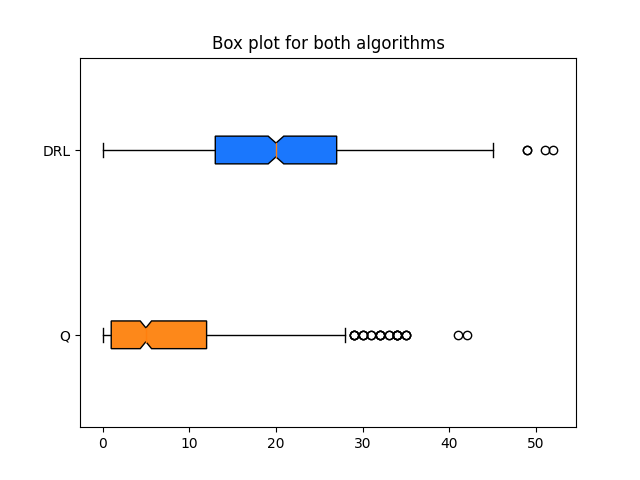
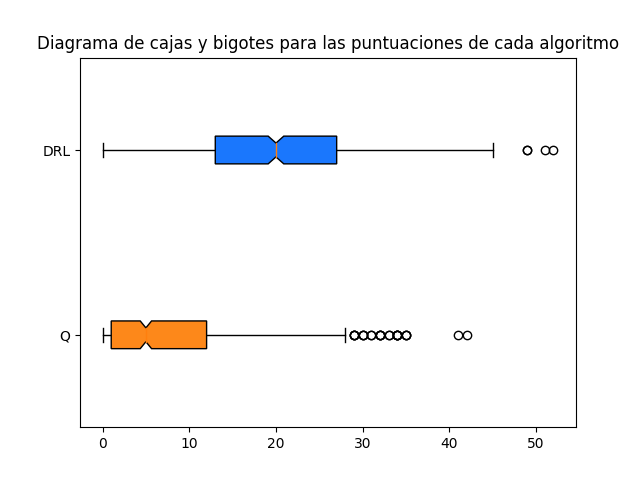
added more explanation fixed some typos

Changed region(s): [[0.0625, 0.0625, 0.9688, 0.125]]

diff --git a/proyecto_final/code/q_learning/results_computer.py b/proyecto_final/code/q_learning/results_computer.py
@@ -236,7 +236,7 @@ for patch, color in zip(bp['boxes'], colors):
 ax.set_yticklabels(['Q', 'DRL'])
  
 # Adding title
-plt.title("Box plot for both algorithms")
+plt.title("Diagrama de cajas y bigotes para las puntuaciones de cada algoritmo")
  
 # Removing top axes and right axes
 # ticks
@@ -265,12 +265,12 @@ for bar in bars:
 for tick in ax.yaxis.get_major_ticks():
   tick.label.set_fontsize(14)
 
-plt.title('Tiempo hasta la media de 7')
+plt.title('Tiempo transcurrido hasta obtener una recompensa media de 7 (s)')
 
 
 # Episodios hasta la media de 7
 
-print ('Episodios hasta la media de 7: ')
+print ('Episodios hasta obtener una recompensa media de 7: ')
 q_ep = epToMean(q,7)
 drl_ep = epToMean(drl,7)
 print('q: '+str(q_ep)+' drl: '+str(drl_ep))
@@ -287,7 +287,7 @@ for bar in bars:
 for tick in ax.yaxis.get_major_ticks():
   tick.label.set_fontsize(14)
 
-plt.title('Episodios hasta la media de 7')
+plt.title('Episodios hasta obtener una recompensa media de 7')
 
 # Max puntuacion
 

diff --git a/proyecto_final/proyecto_final.md b/proyecto_final/proyecto_final.md
@@ -104,7 +104,7 @@ Es por lo mencionado anteriormente, que la primer hipótesis resulta que **la co
 
 Basado también en nuestro conocimiento acerca de como cada uno de los algoritmos guarda su representación de la información, entendemos que las redes neuronales poseen una mayor capacidad de aprendizaje que la Q-Table que utiliza Q-Learning. Esto se debe a que nuestra red neuronal podrá tener una representación tan compleja y profunda del conocimiento como nosotros queramos, definido a través de la cantidad de variables ocultas y capas que se utilicen a lo largo de la red. Es por esto mismo que nuestra segunda hipótesis resulta que **mientras mas tiempo de entrenamiento los agentes lleven a cabo, aquel que utilice redes neuronales será el que mayor puntuación obtenga**
 
-En cuanto a los resultados esperados de los experimentos, **se estima que ambos agentes superen los 10 puntos dentro del entorno del juego pasados una cantidad arbitraria de episodios**, el cual resulta un desempeño que no puede ser producto del azar, si no de un algoritmo capaz de aprender de su entorno.
+En cuanto a los resultados esperados de los experimentos, **se espera que ambos agentes superen los 10 puntos dentro del entorno del juego pasados una cantidad arbitraria de episodios**, el cual resulta un desempeño que no puede ser producto del azar, si no de un algoritmo capaz de aprender de su entorno. Esta estimacion se obtiene de un calculo probabilistico, un agente aleatorio tiene un 0.25 de probabilidad de tomar la acción correcta para acercarse al objetivo a cada paso, suponiendo que la manzana esté a 4 cuadrículas tiene una probabilidad total de 0.25 x 0.25 x 0.25 x 0.25 = 0.0039 solo para alcanzar un objetivo, luego, suponiendo que todas las manzanas sucesivas estuvieran a 4 posiciones de distancia, la probabilidad de que el agente elija acciones correctas para tomar las 10 manzanas en una sucesión es de 0.25 ^ 40 =  8.271 x 10 ^ (-25), es decir, en un caso bastante común en el que se pueda encontrar el agente la probabilidad es inmensamente pequeña de que éste llegue a una puntuación de 10
 
 ## Condiciones de prueba
 
@@ -122,32 +122,40 @@ Para llevar a cabo la interfaz gráfica, el código obtenido del artículo origi
 
 > Este conjunto de comparativas se realizo con los resultados obtenidos despues de ejecutar cada algoritmo (q_learning y drl) a 700 y 600 episodios respectivamente, esto se decidio asi debido a la alta demanda de recursos que exigia el algoritmo y el tiempo que tardaba en realizar dicha tarea. No obstante, desde nuestra perspectiva creemos que esta forma de comparalos no les hace justicia y se requieren multiples puntos de vista para determinar si un algoritmo es superior a otro. Para nuestro analisis decidimos realizar la comparativa igualando la cantidad de episodios
 
-La primer medida a comparar entre ambas implementaciones será el tiempo que le toma a cada agente llegar a una media mayor a 7 manzanas. El resultado de esta comparativa revelará que tan eficiente es cada agente durante el aprendizaje, es decir, ¿ Cuantos minutos le toma a un agente ser eficaz ?
+> Otro punto a tener en cuenta es que cuando nos referimos a la **media es un promedio de las puntuaciones por episodio**, por ej, cuando hablamos de "Tiempo transcurrido hasta la recompensa media de 7", nos referimos a la sumatoria de tiempo desde que comenzo el algoritmo hasta que el promedio de las recompensas obtenidas alcanza 7
 
-> Segun pudimos analizar, el algoritmo de DRL alcanza una media mayor a 7 manzanas antes que el algoritmo de QL con 292 seg frente a 4997
+
+### Tiempo transcurrido en segundos hasta obtener una recompensa media de 7
+La primer medida a comparar entre ambas implementaciones será el tiempo que le toma a cada agente llegar a una puntuacion media mayor a 7 manzanas. El resultado de esta comparativa revelará que tan eficiente es cada agente durante el aprendizaje, es decir, ¿ Cuantos segundos le toma a un agente ser eficaz ?
+
+> Segun pudimos analizar, el algoritmo de DRL alcanza una media mayor a 7 manzanas antes que el algoritmo de QL con 292 seg frente a 4997 seg
 > 
-![Tiempo hasta la recompensa media de 7](./output/time_mean_until_7.png)
+![Tiempo transcurrido hasta obtener una recompensa media de 7 (s)](./output/time_mean_until_7.png)
 Figura 2.1
 
-La segunda métrica comparativa será la cantidad de episodios que le toma a cada agente llegar a una media de 7 manzanas. El resultado de esta comparativa nos dirá que tanto conocimiento obtiene cada agente de cada una de los episodios que experimenta. En este caso no nos importa la velocidad en cuanto al tiempo si no en cuanto a conocimiento adquirido por cada una de las experiencias pasadas.
+### Cantidad de episodios hasta la recompensa media de 7
+La segunda métrica comparativa será la cantidad de episodios que le toma a cada agente llegar a una recompensa media de 7 manzanas. El resultado de esta comparativa nos dirá que tanto conocimiento obtiene cada agente de cada una de los episodios que experimenta. En este caso no nos importa la velocidad en cuanto al tiempo si no en cuanto a conocimiento adquirido por cada una de las experiencias pasadas.
 
 > Segun pudimos analizar, el algoritmo de DRL alcanza una media mayor a 7 manzanas antes que el algoritmo de QL con 17 episodios frente a 660
 > 
 ![Cantidad de episodios hasta la recompensa media de 7](./output/ep_mean_until_7.png)
 Figura 2.2
 
-La tercera métrica comparativa resulta la puntuación máxima luego de un total de 2000 episodios. Esta medida comparativa nos dirá cual de los 2 llega a una política mas óptima luego y por tanto, a una mejor solución del problema. Para este experimento no nos interesa la velocidad a la que se llega a  una política óptima, si no, que tan óptima esta resulta ser con el paso del tiempo.
+### Maximas puntuaciones
+La tercera métrica comparativa resulta la puntuación máxima luego de un total de 600 episodios. Esta medida comparativa nos dirá cual de los 2 llega a una política mas óptima luego y por tanto, a una mejor solución del problema. Para este experimento no nos interesa la velocidad a la que se llega a  una política óptima, si no, que tan óptima esta resulta ser con el paso del tiempo.
 
 > Segun pudimos analizar nuevamente, el algoritmo de DRL alcanza una puntuacion mayor al algoritmo de QL con 52 puntos frente a 42.
 > 
 ![Maximas puntuaciones](./output/max_scores.png)
 Figura 2.3
 
-Otra metrica para analizar es la de tiempo total de ejecucion
+### Tiempo total de ejecucion
+Otra metrica para analizar es la de tiempo total de ejecucion, en la que comparamos cuanto tiempo le toma a cada agente resolver los 600 episodios
 > Donde podemos ver que el tiempo total de ejecucion del agente QL es considerablemente menor al del agente DRL, esto es debido a la simpleza del algoritmo y la necesidad de calculos de cada uno
 
 ![Tiempo total](./output/total_time.png)
 
+### Diagrama de caja y bigotes para ambos algoritmos
 Un analisis adicional que podemos hacer es un diagrama de cajas 
 
 ![Diagrama de caja y bigotes para ambos algoritmos](./output/box_plot.png)
